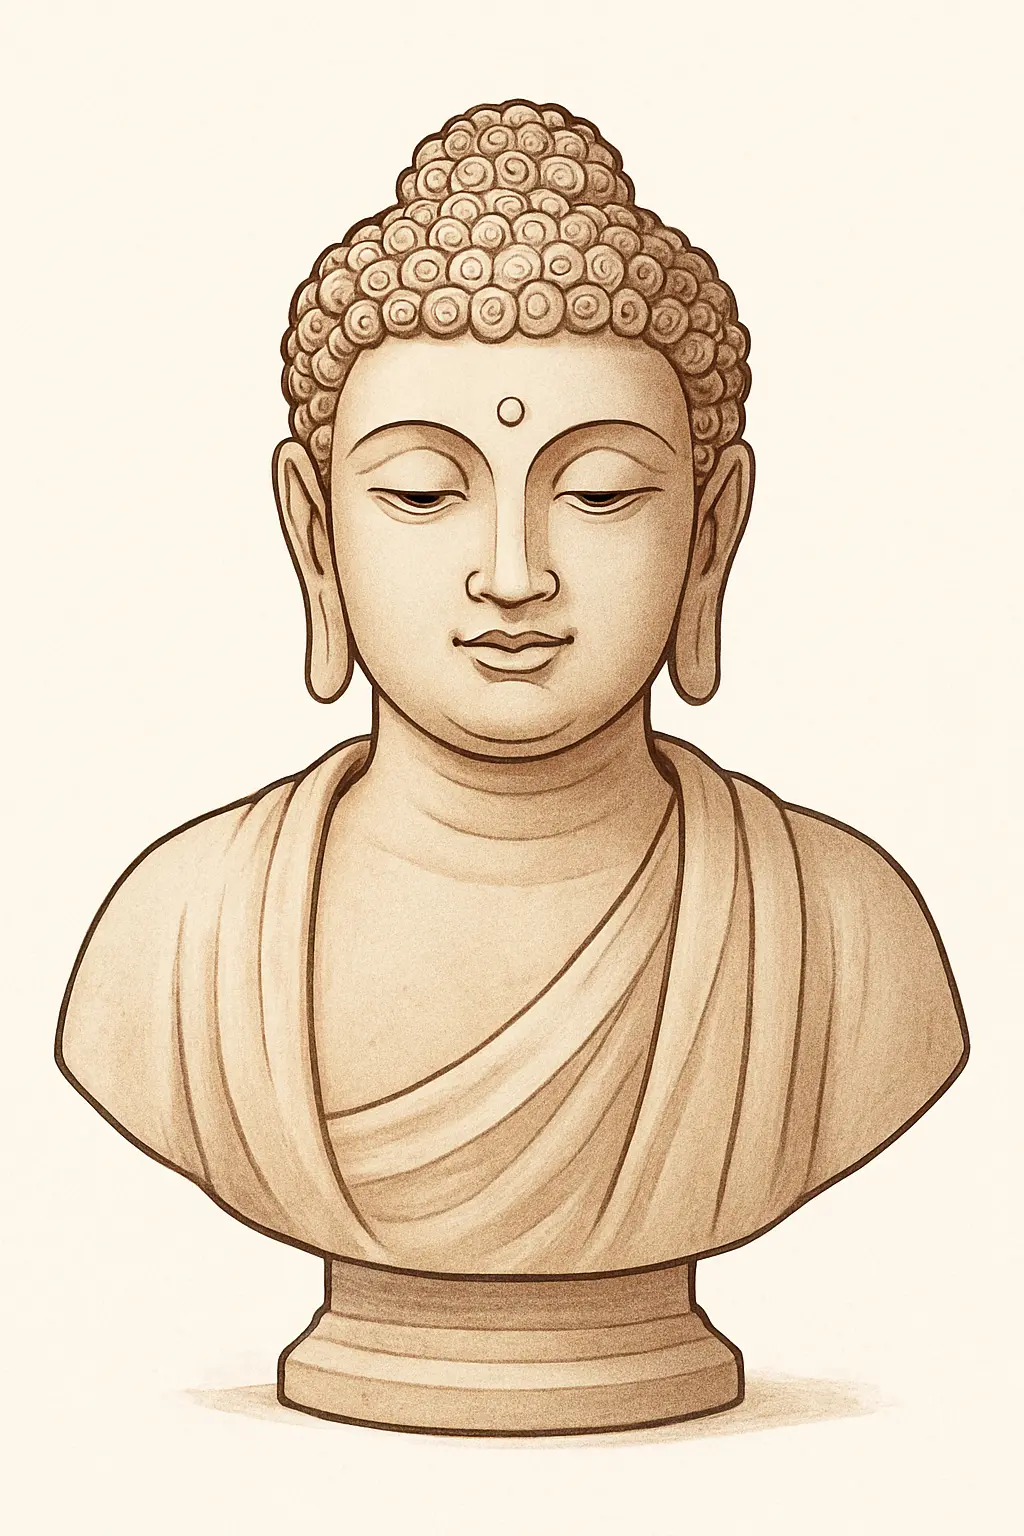
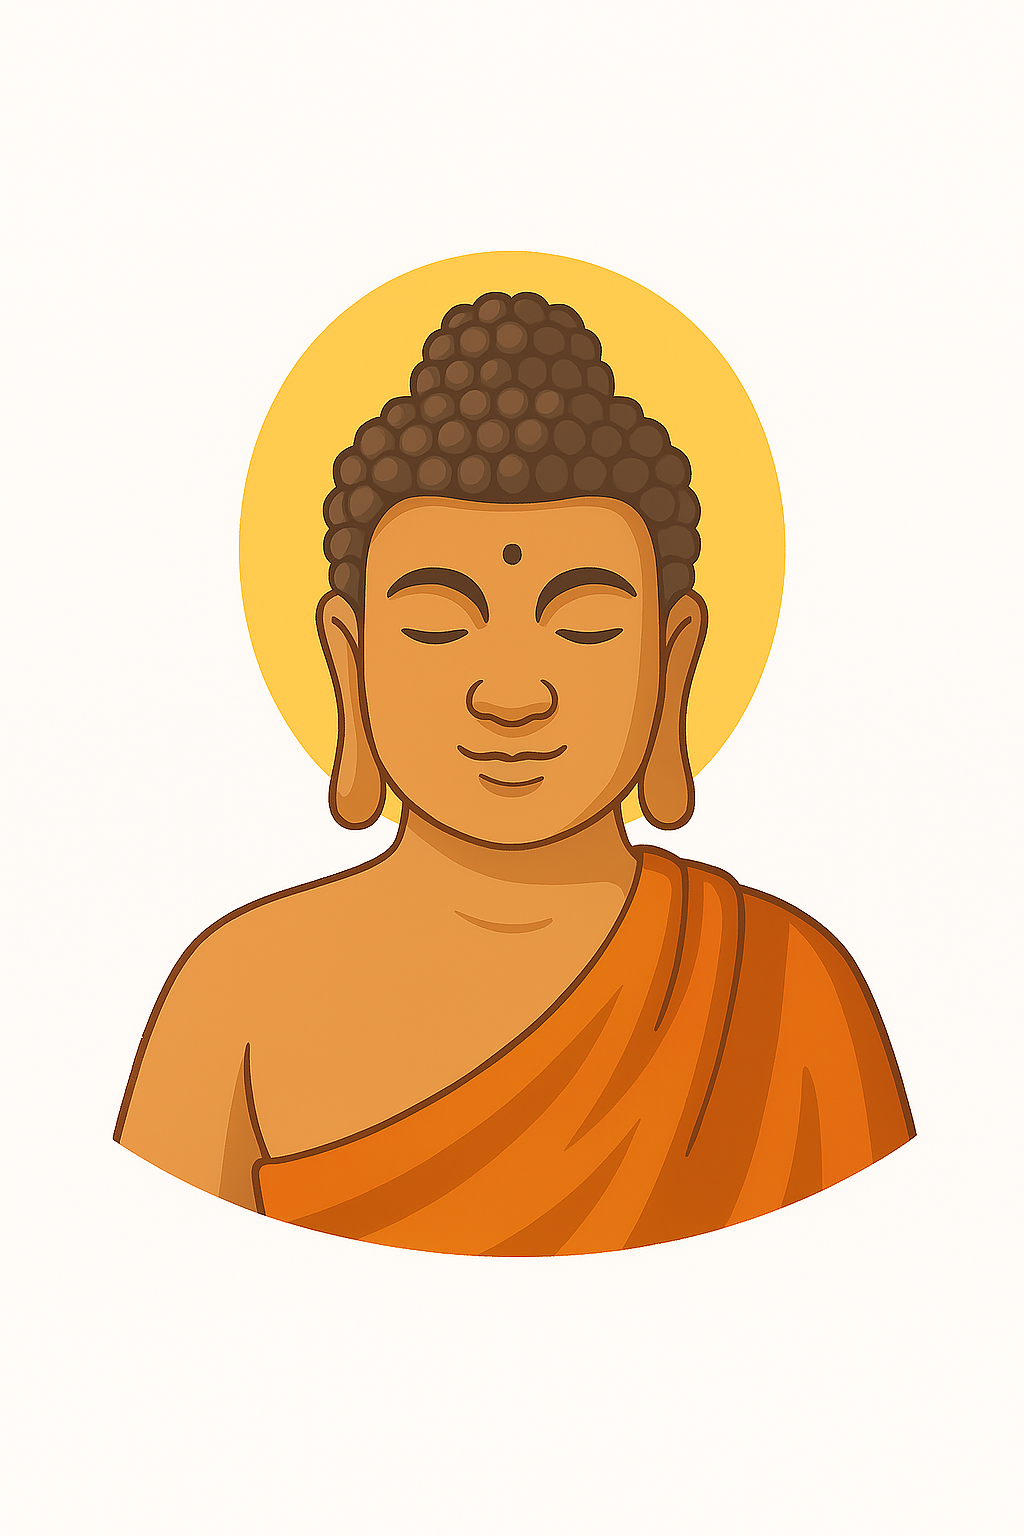
add: new images for sessions

diff --git a/frontend/src/Pages/Course/CourseWrapper.jsx b/frontend/src/Pages/Course/CourseWrapper.jsx
@@ -19,7 +19,7 @@ export default function CourseWithIntro() {
   }, [showIntro]);
 
   return showIntro ? (
-    <div className="intro-screen"><h1 className="intro-screen__title">Detox Mental</h1></div>
+    <div className="intro-screen"><h1 className="intro-screen__intro-image">Detox Mental</h1></div>
   ) : (
     <div className={`course-container ${fadeIn ? "fade-in" : ""}`}>
       <Course />

diff --git a/frontend/src/Components/SessionCard/SessionCard.css b/frontend/src/Components/SessionCard/SessionCard.css
@@ -27,9 +27,9 @@
 
 .session-card__image {
     width: 220px;
-    height: 145px;
+    height: 180px;
     object-fit: cover;
-    object-position: center;
+    object-position: center 30%;
     display: block;
     margin-bottom: 16px;
     border-top-left-radius: 16px;

diff --git a/frontend/src/Pages/Course/Course.css b/frontend/src/Pages/Course/Course.css
@@ -33,7 +33,7 @@
   animation: fadeInOut 3s ease forwards;
 }
 
-.intro-screen__title {
+.intro-screen__intro-image {
   text-align: center;
 }
 
